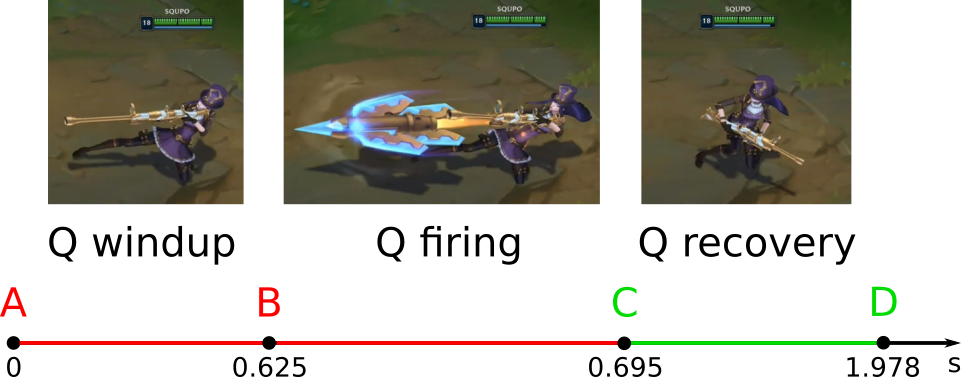
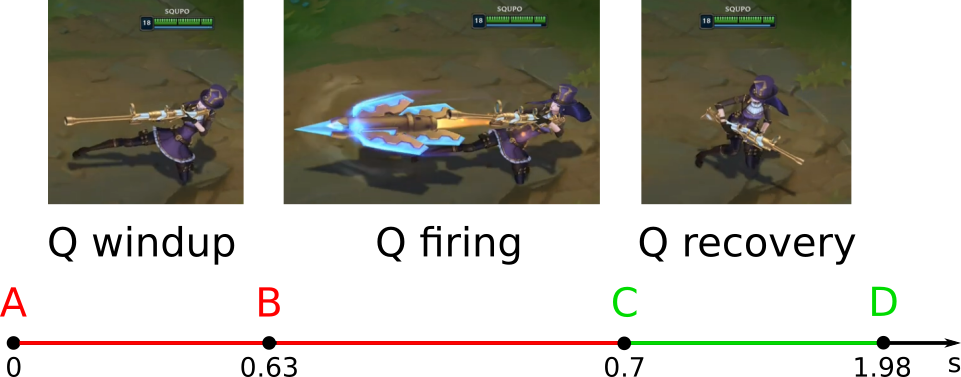
Review the "Micromanagement. Abilities animation" section

Changed region(s): [[0.2185, 0.9337, 0.3434, 1.0], [0.8741, 0.9337, 0.9677, 1.0], [0.5931, 0.9337, 0.6868, 1.0]]

diff --git a/manuscript/Micromanagement/abilities-animation.md b/manuscript/Micromanagement/abilities-animation.md
@@ -496,20 +496,20 @@ I> Чтобы качественно исполнить приём, Vayne дол
 
 3. Скрыть направление снаряда или удара, чтобы противнику стало сложнее от него уклониться.
 
-Рассмотрим защитное комбо Caitlyn E-Q. Его демонстрирует [следующее видео](https://www.youtube.com/shorts/Y5t984dWvDg).
+Рассмотрим **защитное комбо Caitlyn E-Q**. Его демонстрирует [следующее видео](https://www.youtube.com/shorts/Y5t984dWvDg). Сначала разберём умения из которых оно состоит.
 
-**Статическое медленное умение Q** заключается в том, что Caitlyn прицеливается и выпускает заряд, летящий по прямой траектории. У этого умения те же самые недостатки, что у Ezreal R. Во-первых, чемпион долго готовится к выстрелу и поэтому становится уязвимым в сражении. Во-вторых, у снаряда предсказуемая траектория. Из-за этого противнику легко уклониться от него.
+**Статическое медленное умение Q** заключается в том, что Caitlyn прицеливается и выпускает заряд, летящий по прямой траектории. Это умение имеет те же самые недостатки, что Ezreal R. Во-первых, чемпион долго готовится к выстрелу и поэтому становится уязвимым в сражении. Во-вторых, у снаряда предсказуемая траектория. Из-за этого противнику легко от него уклониться.
 
 Иллюстрация 3-22 демонстрирует временную диаграмму умения Q Caitlyn.
 
 {caption: "Иллюстрация 3-22. Временная диаграмма умения Caitlyn Q", width: "100%"}
 ![Умение Caitlyn Q](images/Micromanagement/caitlyn-q-ability-animation.png)
 
-В точке A игрок нажимает кнопку Q. Caitlyn начинает проигрывать фазу анимации windup: приседает на колено и целится из ружья. Эта фаза всегда длится 0.625 секунды.
+В точке A игрок нажимает кнопку Q. Caitlyn начинает проигрывать фазу анимации windup: приседает на колено и целится из ружья. Эта фаза всегда длится примерно 0.63 секунды.
 
-В точке B начинается фаза анимации firing: ружьё Caytlin выстреливает снаряд. Эта анимация длится примерно 0.07 секунды.
+В точке B начинается фаза анимации firing: ружьё Caitlyn выстреливает снаряд. Эта анимация длится примерно 0.07 секунды.
 
-Начиная с точки D, Caitlyn проигрывает фазу анимации recovery, которая длится примерно 1.283 секунды. Её можно отменить атакой, передвижением, заклинанием призывателя, активным эффектом предмета или другим умением чемпиона.
+Начиная с точки D, Caitlyn проигрывает фазу анимации recovery, которая длится примерно 1.28 секунды. Её можно отменить атакой, передвижением, заклинанием призывателя, активным эффектом предмета или другим умением чемпиона.
 
 **Динамическое медленное умение E Caitlyn** заключается в том, что она выстреливает сеть из ружья. При этом чемпион отлетает в противоположном направлении из-за отдачи. При попадании снаряда противник получает магический урон и замедляется на 1 секунду.
 
@@ -522,7 +522,7 @@ I> Чтобы качественно исполнить приём, Vayne дол
 
 В точке B начинается фаза анимации firing: ружьё выстреливает сеть, а сама Caitlyn отлетает назад из-за отдачи. Эта анимация длится примерно 0.4 секунды. Она заканчивается, когда Caitlyn приземляется на землю.
 
-Начиная с точки D, Caitlyn проигрывает фазу анимации recovery, которая длится примерно 0.633 секунды. Её можно отменить атакой, передвижением, заклинанием призывателя, активным эффектом предмета или другим умением чемпиона.
+Начиная с точки D, Caitlyn проигрывает фазу анимации recovery, которая длится примерно 0.63 секунды. Её можно отменить атакой, передвижением, заклинанием призывателя, активным эффектом предмета или другим умением чемпиона.
 
 **Защитная комбинация Caitlyn E-Q** похожа на комбо Ezreal R-F. Она решает обе проблемы умения Q. Идея комбинации заключается в том, чтобы сначала применить умение E. Как только начнётся его анимация firing, надо применить умение Q. При правильном исполнении фаза анимации Q windup наложится на анимацию E firing. Они будут проигрываться одновременно. Таким образом Caitlyn будет двигаться во время подготовки умения Q. Таким образом она защищается от атак и умений противников. В то же время маскировка анимации скрывает траекторию полёта снаряда от умения Q.
 
@@ -533,11 +533,11 @@ I> Чтобы качественно исполнить приём, Vayne дол
 
 В точке A игрок нажимает кнопку E. Caitlyn начинает проигрывать фазу анимации E windup, которая длится 0.15 секунды.
 
-В точке B начинается фаза анимации firing умения E. Чтобы качественно исполнить комбо,надо нажать кнопку Q сразу после начала E firing. Тогда спустя примерно 0.03 секунды в точке C, Caitlyn начнёт анимацию windup умения Q. Она наложится на проигрываемую анимацию E firing. При этом чемпион будет двигаться в сторону, противоположную снаряду от умения E.
+В точке B начинается фаза анимации firing умения E. Чтобы качественно исполнить комбо,надо нажать кнопку Q сразу после начала E firing. Тогда спустя примерно 0.03 секунды в точке C, Caitlyn начнёт проигрывать анимацию windup умения Q. Она наложится на анимацию E firing. При этом чемпион будет двигаться в сторону, противоположную снаряду от умения E.
 
-Через 0.625 секунды в точке D закончится фаза анимации Q windup. Caitlyn начнёт фазу firing умения Q. Она займёт примерно 0.07 секунды. При правильном исполнении комбо снаряд вылетит из позиции, в которой находился чемпион в момент нажатия кнопки Q.
+Через 0.63 секунды в точке D закончится фаза анимации Q windup. Caitlyn начнёт фазу firing умения Q. Она займёт примерно 0.07 секунды. При правильном исполнении комбо снаряд вылетит из позиции, в которой находился чемпион в момент нажатия кнопки Q.
 
-Начиная с точки E, Caitlyn проигрывает фазу анимации recovery умения Q, которая длится примерно 1.283 секунды. Её можно отменить атакой, передвижением, заклинанием призывателя, активным эффектом предмета или другим умением чемпиона.
+Начиная с точки E, Caitlyn проигрывает фазу анимации recovery умения Q, которая длится примерно 1.28 секунды. Её можно отменить атакой, передвижением, заклинанием призывателя, активным эффектом предмета или другим умением чемпиона.
 
 Это примеры комбинаций, которые маскируют анимацию умений аналогично комбо Caitlyn E-Q:
 
@@ -551,7 +551,7 @@ I> Чтобы качественно исполнить приём, Vayne дол
 
 * Samira E-Q
 
-Последние два комбо представляют собой типичную маскировку анимации: фаза firing динамического умения E накладывается на фазы windup и firing статического умения Q. Но разработчики игры сделали специальную анимацию чемпионов для этих случаев. Кроме этого они изменили область действия умения Q, если оно применяется в комбинации с умением E.
+Последние два комбо представляют собой типичную маскировку анимации: фаза firing динамического умения E накладывается на фазы windup и firing статического умения Q. Но разработчики игры сделали специальную анимацию чемпионов для этих случаев. Кроме этого они изменили область действия умения Q, если оно применяется в комбинации с умением E. Несмотря на специальную анимацию, техника работы с этими комбо такая же, как при маскировке анимации с помощью динамических умений.
 
 ### 3.2.6 Сложные комбинации
 
